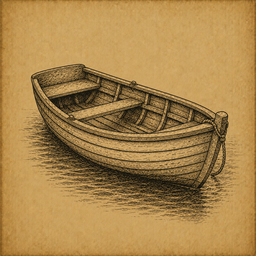
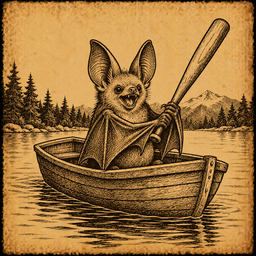
Some cosmetic cleanup. Reworked how digits are entered for image -> number quiz

diff --git a/numbers-reverse.html b/numbers-reverse.html
@@ -45,22 +45,46 @@
     #quiz { text-align: center; }
 
     #pegImage {
-      width: 160px;
-      height: 160px;
+      width: 220px;
+      height: 220px;
       object-fit: contain;
       margin: 10px 0;
       border-radius: 10px;
     }
 
     .guess-display {
-      font-size: 2.5rem;
-      font-weight: 700;
       min-height: 50px;
       margin: 4px 0;
       display: flex;
       align-items: center;
       justify-content: center;
+      gap: 8px;
     }
+
+    #answerInput {
+      font-size: 2rem;
+      font-weight: 700;
+      width: 80px;
+      text-align: center;
+      border: 2px solid var(--border);
+      border-radius: 8px;
+      background: var(--accent);
+      color: var(--text-color);
+      padding: 6px;
+    }
+
+    #goBtn {
+      font-size: 1.1rem;
+      padding: 10px 18px;
+      border-radius: 8px;
+      border: 1px solid var(--border);
+      background: var(--accent);
+      color: var(--text-color);
+      cursor: pointer;
+      font-weight: 600;
+    }
+
+    #goBtn:hover { background: var(--accent-hover); }
 
     #feedback {
       font-size: 1.1rem;
@@ -93,13 +117,6 @@
     .btn-row button:hover { background: var(--accent-hover); }
     .btn-row button.selected { background: var(--accent-hover); font-weight: 700; }
 
-    .btn-label {
-      font-size: 0.75rem;
-      color: var(--text-color);
-      opacity: 0.5;
-      margin: 4px 0 2px;
-    }
-
     .final-screen {
       display: none;
       text-align: center;
@@ -128,14 +145,13 @@
 
   <div id="quiz">
     <img id="pegImage" src="" alt="Peg" />
-    <div class="guess-display" id="guessDisplay">?</div>
+    <div class="guess-display" id="guessDisplay">
+      <input type="text" id="answerInput" inputmode="numeric" pattern="[0-9]*" autocomplete="off" placeholder="?" />
+      <button id="goBtn" onclick="submitAnswer()">Go</button>
+    </div>
     <div id="feedback"></div>
 
-    <div class="btn-label">Tens</div>
-    <div class="btn-row" id="tensRow"></div>
-
-    <div class="btn-label">Ones</div>
-    <div class="btn-row" id="onesRow"></div>
+    <div class="btn-row" id="digitRow"></div>
   </div>
 
   <div class="final-screen" id="finalScreen">
@@ -150,25 +166,45 @@
     let idx = 0;
     let correct = 0;
     let total = 0;
-    let selectedTens = null;
-    let selectedOnes = null;
     let answered = false;
 
+    const answerInput = document.getElementById('answerInput');
+
     function buildButtons() {
-      const tensRow = document.getElementById('tensRow');
-      const onesRow = document.getElementById('onesRow');
-      [0, 10, 20, 30, 40, 50, 60, 70, 80, 90].forEach(t => {
-        const btn = document.createElement('button');
-        btn.textContent = t;
-        btn.onclick = () => selectTens(t, btn);
-        tensRow.appendChild(btn);
-      });
+      const digitRow = document.getElementById('digitRow');
       for (let i = 0; i <= 9; i++) {
         const btn = document.createElement('button');
         btn.textContent = i;
-        btn.onclick = () => selectOnes(i, btn);
-        onesRow.appendChild(btn);
+        btn.onclick = () => appendDigit(i);
+        digitRow.appendChild(btn);
       }
+    }
+
+    function appendDigit(d) {
+      if (answered) return;
+      answerInput.value += d;
+      answerInput.focus();
+    }
+
+    // Only allow numeric input
+    answerInput.addEventListener('input', function() {
+      this.value = this.value.replace(/[^0-9]/g, '');
+    });
+
+    // Submit on Enter key
+    answerInput.addEventListener('keydown', function(e) {
+      if (e.key === 'Enter') {
+        e.preventDefault();
+        submitAnswer();
+      }
+    });
+
+    function submitAnswer() {
+      if (answered) return;
+      const val = answerInput.value.trim();
+      if (val === '') return;
+      const guess = parseInt(val, 10);
+      checkAnswer(guess, order[idx]);
     }
 
     function updateScore() {
@@ -185,74 +221,29 @@
 
       const current = order[idx];
       document.getElementById('pegImage').src = getNumberImageSrc(current);
-      document.getElementById('guessDisplay').textContent = '?';
+      answerInput.value = '';
+      answerInput.placeholder = '?';
       document.getElementById('feedback').innerHTML = '';
-      selectedTens = null;
-      selectedOnes = null;
       answered = false;
 
-      // Reset button styles
-      document.querySelectorAll('.btn-row button').forEach(b => b.classList.remove('selected'));
       enableButtons(true);
+      answerInput.disabled = false;
+      answerInput.focus();
     }
 
     function enableButtons(on) {
-      document.querySelectorAll('.btn-row button').forEach(b => {
+      document.querySelectorAll('#digitRow button').forEach(b => {
         b.disabled = !on;
       });
-    }
-
-    function selectTens(val, btn) {
-      if (answered) return;
-      selectedTens = val;
-      document.querySelectorAll('#tensRow button').forEach(b => b.classList.remove('selected'));
-      btn.classList.add('selected');
-      updateGuessDisplay();
-      tryCheck();
-    }
-
-    function selectOnes(val, btn) {
-      if (answered) return;
-      selectedOnes = val;
-      document.querySelectorAll('#onesRow button').forEach(b => b.classList.remove('selected'));
-      btn.classList.add('selected');
-      updateGuessDisplay();
-      tryCheck();
-    }
-
-    function updateGuessDisplay() {
-      const display = document.getElementById('guessDisplay');
-      if (selectedTens !== null && selectedOnes !== null) {
-        display.textContent = selectedTens + selectedOnes;
-      } else if (selectedTens !== null) {
-        display.textContent = (selectedTens / 10) + '_';
-      } else if (selectedOnes !== null) {
-        display.textContent = '_' + selectedOnes;
-      } else {
-        display.textContent = '?';
-      }
-    }
-
-    function tryCheck() {
-      const current = order[idx];
-
-      // For numbers < 10: only ones needed (no tens)
-      if (current < 10 && selectedOnes !== null && selectedTens === null) {
-        checkAnswer(selectedOnes, current);
-        return;
-      }
-
-      // For numbers >= 10: need both
-      if (selectedTens !== null && selectedOnes !== null) {
-        checkAnswer(selectedTens + selectedOnes, current);
-      }
+      document.getElementById('goBtn').disabled = !on;
     }
 
     function checkAnswer(guess, current) {
       answered = true;
       total++;
       enableButtons(false);
-      document.getElementById('guessDisplay').textContent = current;
+      answerInput.disabled = true;
+      answerInput.value = current;
 
       if (guess === current) {
         correct++;

diff --git a/numbers-index.html b/numbers-index.html
@@ -71,7 +71,7 @@
   <div class="menu">
     <a href="numbers-how-it-works.html">How does this work?</a>
     <a href="numbers-all.html">All Numbers</a>
-    <a href="numbers-study.html">Quiz: Numbers &rarr; Images (In Order)</a>
+    <a href="numbers-study.html">Quiz: Numbers &rarr; Images <br>(In Order)</a>
     <a href="numbers-quiz.html">Quiz: Numbers &rarr; Images (Random)</a>
     <a href="numbers-reverse.html">Quiz: Images &rarr; Numbers</a>
   </div>

diff --git a/numbers-quiz.html b/numbers-quiz.html
@@ -60,15 +60,15 @@
 
     .image-grid {
       display: grid;
-      grid-template-columns: repeat(4, 1fr);
-      gap: 8px;
+      grid-template-columns: repeat(2, 1fr);
+      gap: 10px;
       padding: 10px;
       max-width: 360px;
     }
 
     .image-grid img {
-      width: 75px;
-      height: 75px;
+      width: 140px;
+      height: 140px;
       object-fit: contain;
       border-radius: 6px;
       border: 3px solid transparent;

diff --git a/cards2pegs.html b/cards2pegs.html
@@ -114,6 +114,7 @@ html, body {
 <body>
   <div id="scoreDisplay" style="position:fixed;top:10px;right:10px;font-size:14px;font-weight:600;z-index:999;">Score: 0/0</div>
 
+    <div style="height: 20px;"></div>
     <div class="card-container">
       <div class="card" id="cardDisplay">
         <div id="cardText" class=""></div>

diff --git a/pegs2cards.html b/pegs2cards.html
@@ -71,6 +71,7 @@
 
   <div id="scoreDisplay" style="position:fixed;top:10px;right:10px;font-size:14px;font-weight:600;z-index:999;">Score: 0/0</div>
 
+  <div style="height: 20px;"></div>
   <img id="cardImage" src="" alt="Card" />
 
   <div class="buttons">
